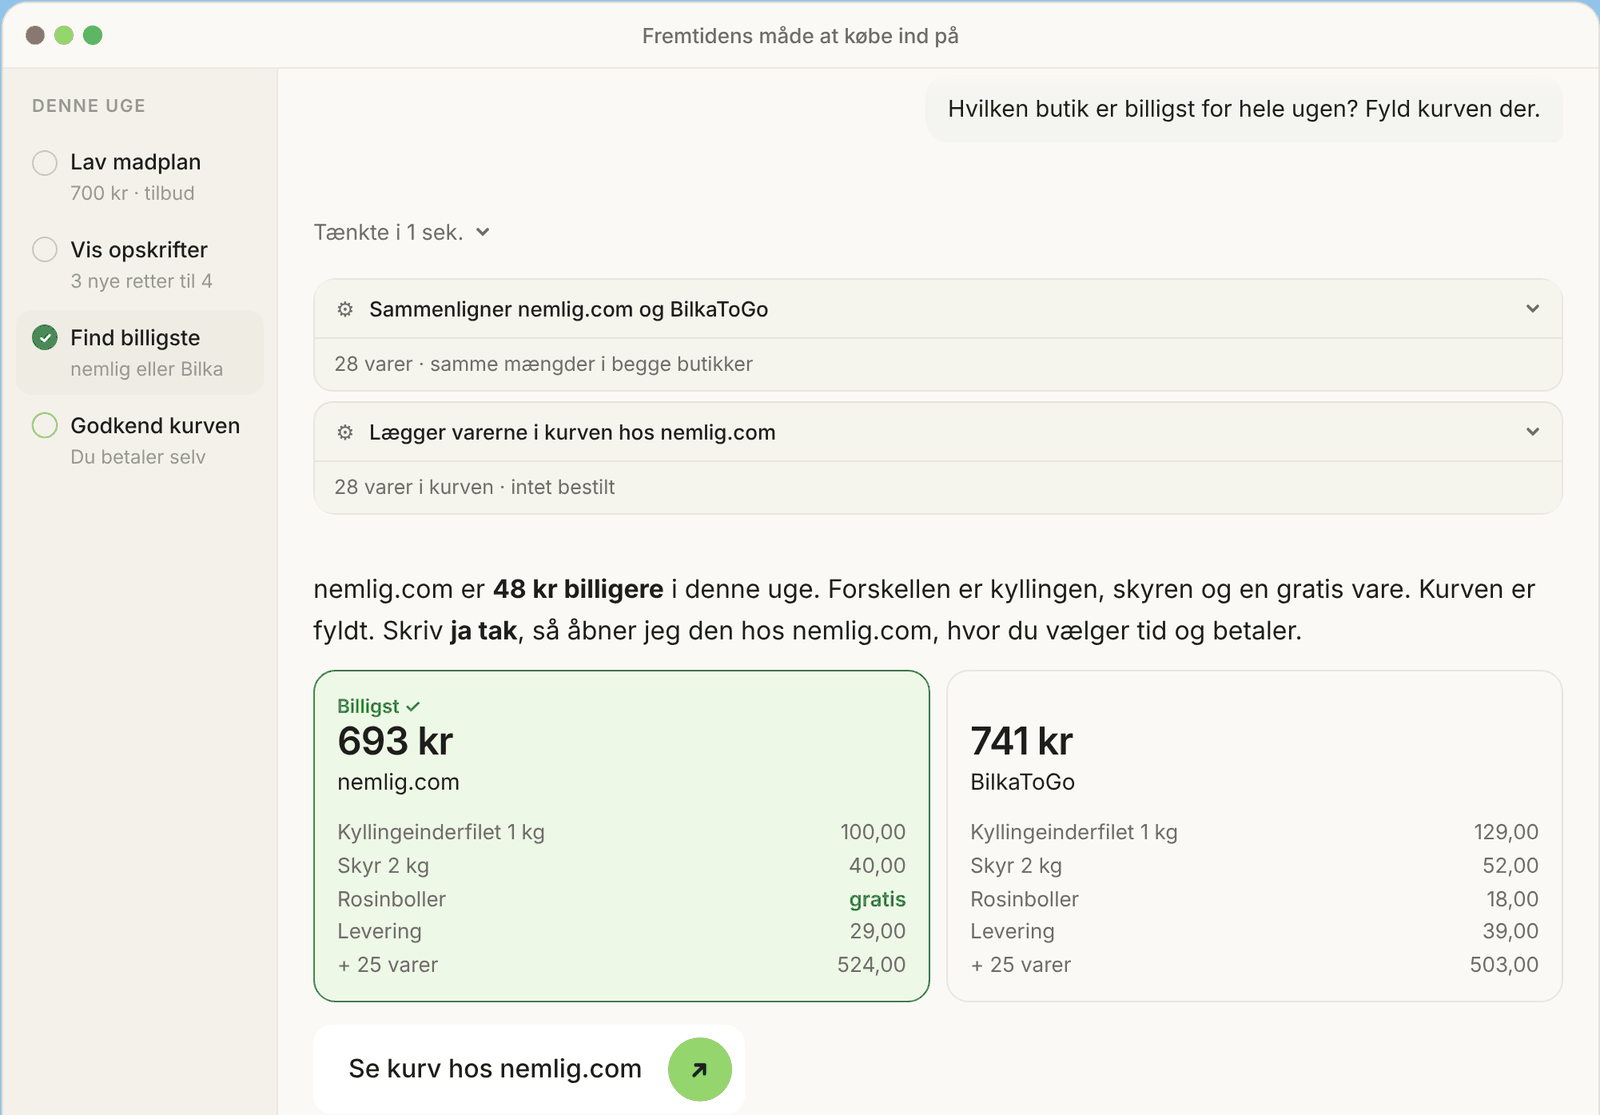
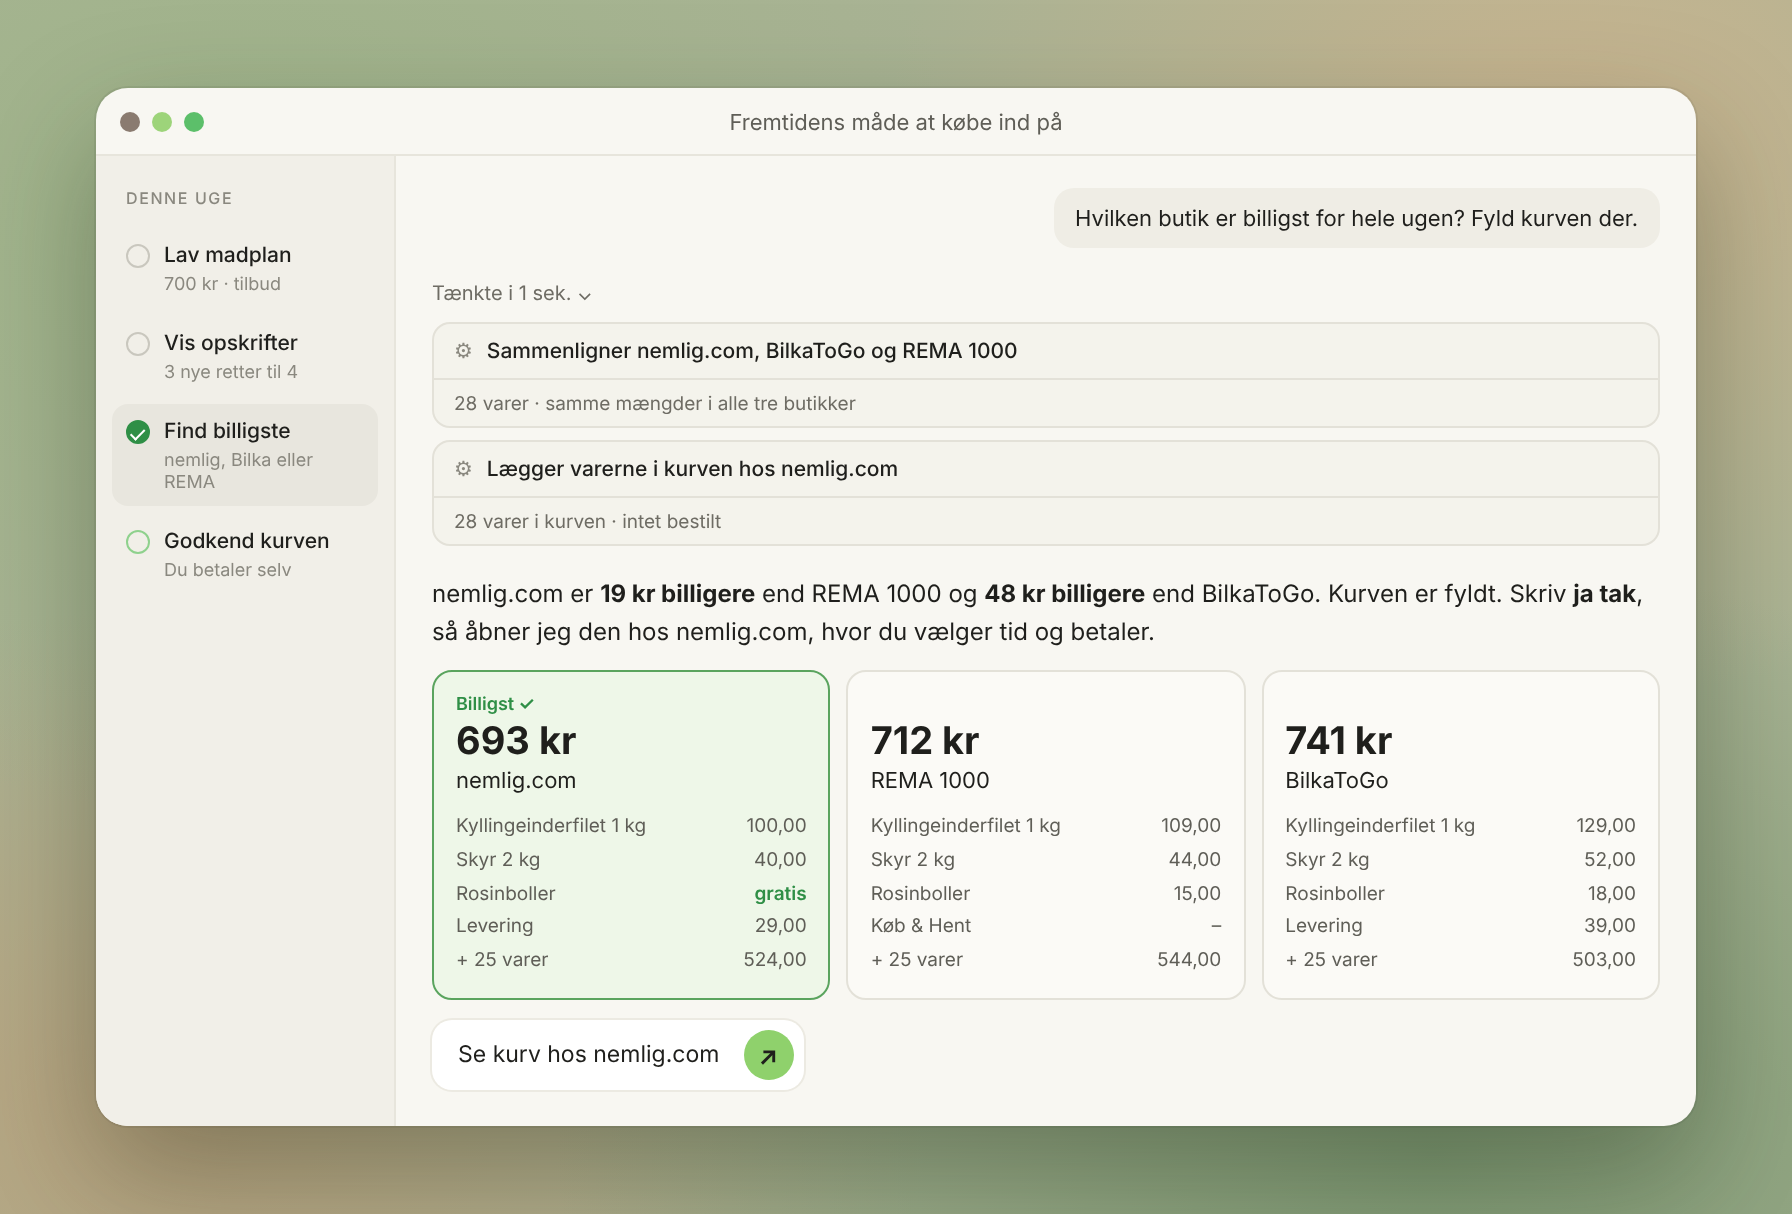
📝 README demo: REMA 1000 as the third store, framed on a background

diff --git a/README.md b/README.md
@@ -17,7 +17,7 @@ An MCP server for Claude, Grok or Codex. It reads the offers, plans the week on 
 
 **[Install →](#install)** · [handlemcp.dk](https://handlemcp.dk)
 
-<img src="docs/demo.png" alt="Example from the demo: the agent compares nemlig.com (693 kr) and BilkaToGo (741 kr) and fills the cheaper cart; nothing is ordered. Prices are examples" width="800">
+<img src="docs/demo.png" alt="Example from the demo: the agent compares nemlig.com (693 kr), REMA 1000 (712 kr) and BilkaToGo (741 kr) and fills the cheapest cart; nothing is ordered. Prices are examples" width="800">
 
 </div>
 
